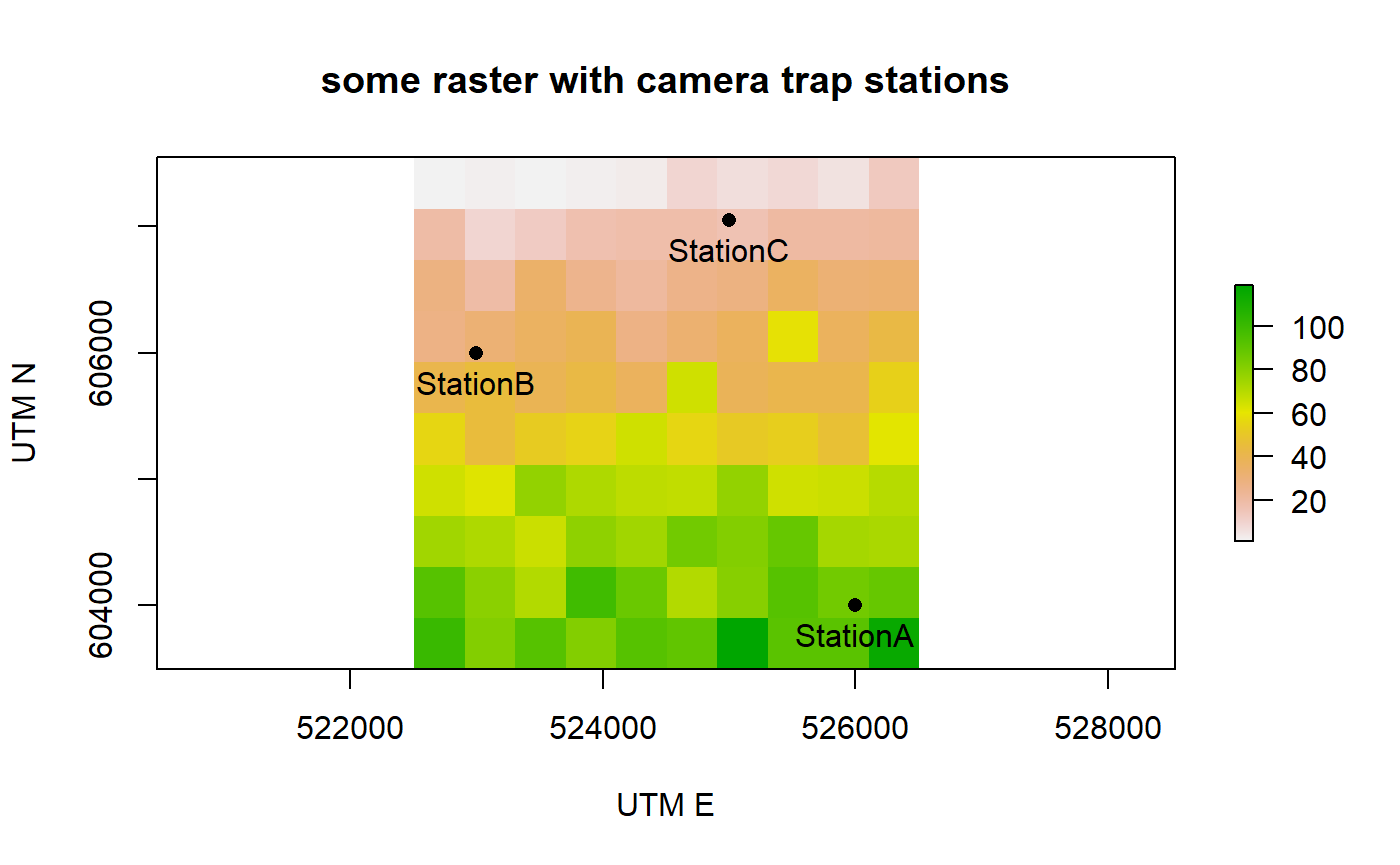
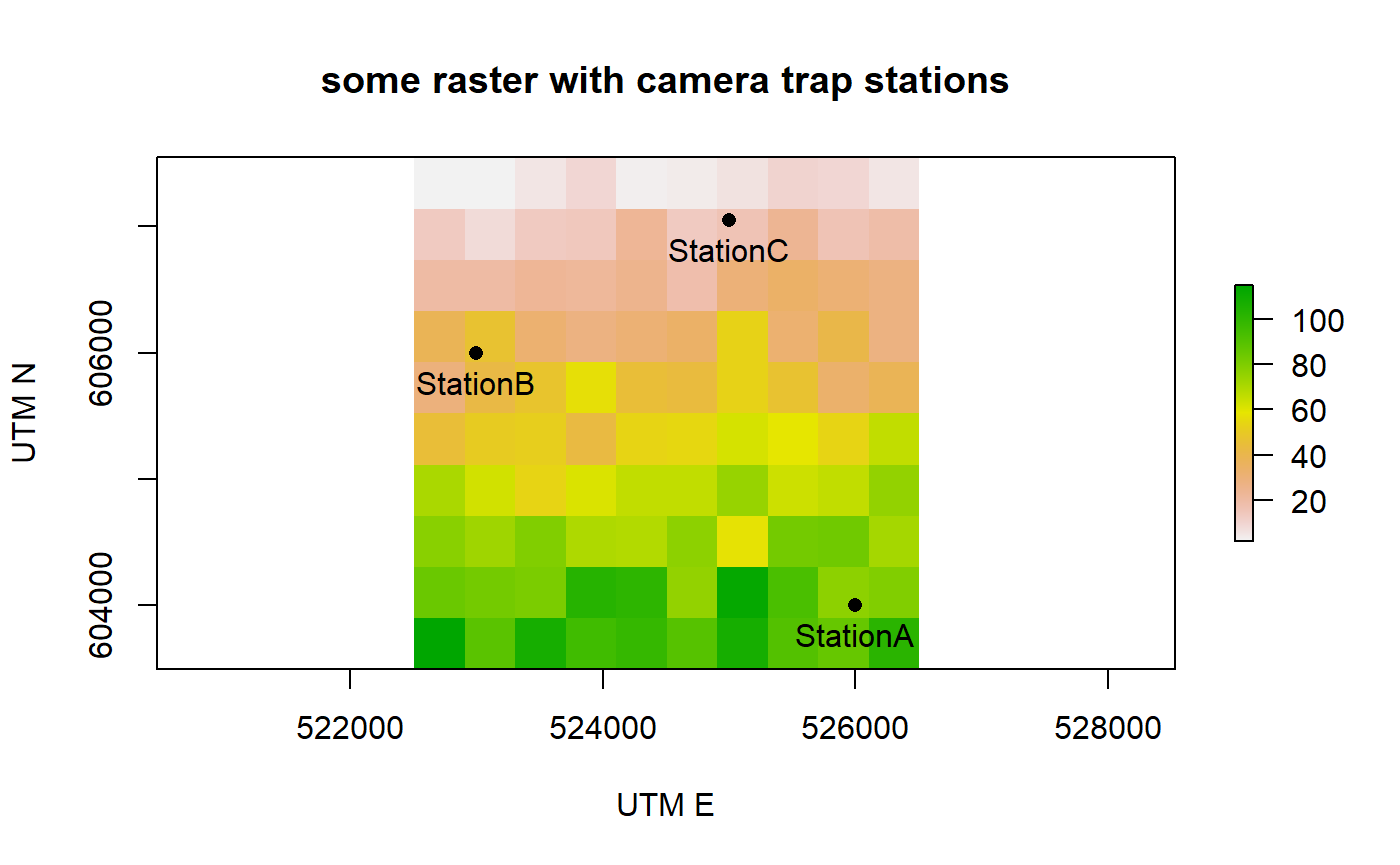
version check in camop_Plot

diff --git a/docs/articles/camtrapr4.html b/docs/articles/camtrapr4.html
@@ -31,7 +31,7 @@
       </button>
       <span class="navbar-brand">
         <a class="navbar-link" href="../index.html">camtrapR</a>
-        <span class="version label label-default" data-toggle="tooltip" data-placement="bottom" title="Released version">2.0.0</span>
+        <span class="version label label-default" data-toggle="tooltip" data-placement="bottom" title="Released version">2.0.2</span>
       </span>
     </div>
 
@@ -94,7 +94,7 @@
       <h1>4. Data exploration and visualisation in camtrapR</h1>
                         <h4 class="author">Juergen Niedballa (<a href="mailto:camtrapr@gmail.com" class="email">camtrapr@gmail.com</a>)</h4>
             
-            <h4 class="date">2020-04-08</h4>
+            <h4 class="date">2020-04-22</h4>
       
       <small class="dont-index">Source: <a href="https://github.com/jniedballa/camtrapR/blob/master/vignettes/camtrapr4.Rmd"><code>vignettes/camtrapr4.Rmd</code></a></small>
       <div class="hidden name"><code>camtrapr4.Rmd</code></div>
@@ -193,7 +193,7 @@
 <a class="sourceLine" id="cb8-2" title="2">shapefileTest &lt;-<span class="st"> </span><span class="kw">readOGR</span>(<span class="dt">dsn   =</span> <span class="kw"><a href="https://rdrr.io/r/base/tempfile.html">tempdir</a></span>(), </a>
 <a class="sourceLine" id="cb8-3" title="3">                         <span class="dt">layer =</span> shapefileName)</a></code></pre></div>
 <pre><code>## OGR data source with driver: ESRI Shapefile 
-## Source: "C:\Users\Juergen\AppData\Local\Temp\RtmpUpycSg", layer: "recordShapefileTest"
+## Source: "C:\Users\Juergen\AppData\Local\Temp\Rtmp0s38Wd", layer: "recordShapefileTest"
 ## with 3 features
 ## It has 9 fields</code></pre>
 <div class="sourceCode" id="cb10"><pre class="sourceCode r"><code class="sourceCode r"><a class="sourceLine" id="cb10-1" title="1"><span class="co"># we have a look at the attribute table</span></a>
@@ -266,10 +266,11 @@
 <a class="sourceLine" id="cb16-26" title="26">  detections_spdf<span class="op">@</span>data</a>
 <a class="sourceLine" id="cb16-27" title="27"></a>
 <a class="sourceLine" id="cb16-28" title="28">}</a></code></pre></div>
+<pre><code>## Warning: package 'raster' was built under R version 3.6.3</code></pre>
 <p><img src="camtrapr4_files/figure-html/unnamed-chunk-7-1.png" width="700"></p>
 <pre><code>##    Station  utm_y  utm_x EGY MNE PBE TRA VTA n_species raster_value
-## 1 StationA 604000 526000   0   0   4   0   2         2           86
-## 2 StationB 606000 523000   0   2   8   0   2         3           31
+## 1 StationA 604000 526000   0   0   4   0   2         2           77
+## 2 StationB 606000 523000   0   2   8   0   2         3           47
 ## 3 StationC 607050 525000   6   0   6   8   1         4           16</code></pre>
 <p>The same procedure also works with the camera trap station information table instead of the <code>detectionMaps</code> output.</p>
 </div>
@@ -292,44 +293,44 @@
 <code>activityRadial</code>: radial plot of hourly activity</li>
 </ol>
 <p>In all three, users can either plot activity of one focal species (by setting argument <code>allSpecies = FALSE</code>) or of all recorded species at once (by setting argument <code>allSpecies = TRUE</code>). If desired, plots can be saved as png files in a user-defined location automatically (arguments <code>writePNG</code> and <code>plotDirectory</code>). Note that the examples are not particularly pretty because of the low number of records used in the sample data set.</p>
-<div class="sourceCode" id="cb18"><pre class="sourceCode r"><code class="sourceCode r"><a class="sourceLine" id="cb18-1" title="1"><span class="co"># we first pick a species for our activity trials</span></a>
-<a class="sourceLine" id="cb18-2" title="2">species4activity &lt;-<span class="st"> "PBE"</span>    <span class="co"># = Prionailurus bengalensis, Leopard Cat</span></a></code></pre></div>
+<div class="sourceCode" id="cb19"><pre class="sourceCode r"><code class="sourceCode r"><a class="sourceLine" id="cb19-1" title="1"><span class="co"># we first pick a species for our activity trials</span></a>
+<a class="sourceLine" id="cb19-2" title="2">species4activity &lt;-<span class="st"> "PBE"</span>    <span class="co"># = Prionailurus bengalensis, Leopard Cat</span></a></code></pre></div>
 <div id="kernel-density-estimation" class="section level3">
 <h3 class="hasAnchor">
 <a href="#kernel-density-estimation" class="anchor"></a>Kernel density estimation</h3>
 <p><code>activityDensity</code> uses the function <code>densityPlot</code> from the <code>overlap</code> package.</p>
-<div class="sourceCode" id="cb19"><pre class="sourceCode r"><code class="sourceCode r"><a class="sourceLine" id="cb19-1" title="1"><span class="kw"><a href="../reference/activityDensity.html">activityDensity</a></span>(<span class="dt">recordTable =</span> recordTableSample,</a>
-<a class="sourceLine" id="cb19-2" title="2">                <span class="dt">species     =</span> species4activity)</a></code></pre></div>
+<div class="sourceCode" id="cb20"><pre class="sourceCode r"><code class="sourceCode r"><a class="sourceLine" id="cb20-1" title="1"><span class="kw"><a href="../reference/activityDensity.html">activityDensity</a></span>(<span class="dt">recordTable =</span> recordTableSample,</a>
+<a class="sourceLine" id="cb20-2" title="2">                <span class="dt">species     =</span> species4activity)</a></code></pre></div>
 <p><img src="camtrapr4_files/figure-html/unnamed-chunk-9-1.png" width="700"></p>
 </div>
 <div id="histogram" class="section level3">
 <h3 class="hasAnchor">
 <a href="#histogram" class="anchor"></a>Histogram</h3>
 <p>This function creates a histogram with hourly intervals, i.e. histogram cells are 1 hour wide.</p>
-<div class="sourceCode" id="cb20"><pre class="sourceCode r"><code class="sourceCode r"><a class="sourceLine" id="cb20-1" title="1"><span class="kw"><a href="../reference/activityHistogram.html">activityHistogram</a></span> (<span class="dt">recordTable =</span> recordTableSample,</a>
-<a class="sourceLine" id="cb20-2" title="2">                   <span class="dt">species     =</span> species4activity)</a></code></pre></div>
+<div class="sourceCode" id="cb21"><pre class="sourceCode r"><code class="sourceCode r"><a class="sourceLine" id="cb21-1" title="1"><span class="kw"><a href="../reference/activityHistogram.html">activityHistogram</a></span> (<span class="dt">recordTable =</span> recordTableSample,</a>
+<a class="sourceLine" id="cb21-2" title="2">                   <span class="dt">species     =</span> species4activity)</a></code></pre></div>
 <p><img src="camtrapr4_files/figure-html/unnamed-chunk-10-1.png" width="700"></p>
 </div>
 <div id="radial-plot" class="section level3">
 <h3 class="hasAnchor">
 <a href="#radial-plot" class="anchor"></a>Radial plot</h3>
 <p>This function uses functions from the <code>plotrix</code> package to create the clock face. Records are aggregated to the full hour (as in <code>activityHistogram</code>).</p>
-<div class="sourceCode" id="cb21"><pre class="sourceCode r"><code class="sourceCode r"><a class="sourceLine" id="cb21-1" title="1"><span class="kw"><a href="../reference/activityRadial.html">activityRadial</a></span>(<span class="dt">recordTable  =</span> recordTableSample,</a>
-<a class="sourceLine" id="cb21-2" title="2">               <span class="dt">species      =</span> species4activity,</a>
-<a class="sourceLine" id="cb21-3" title="3">               <span class="dt">lwd          =</span> <span class="dv">3</span>       <span class="co"># adjust line with of the plot</span></a>
-<a class="sourceLine" id="cb21-4" title="4">)</a></code></pre></div>
+<div class="sourceCode" id="cb22"><pre class="sourceCode r"><code class="sourceCode r"><a class="sourceLine" id="cb22-1" title="1"><span class="kw"><a href="../reference/activityRadial.html">activityRadial</a></span>(<span class="dt">recordTable  =</span> recordTableSample,</a>
+<a class="sourceLine" id="cb22-2" title="2">               <span class="dt">species      =</span> species4activity,</a>
+<a class="sourceLine" id="cb22-3" title="3">               <span class="dt">lwd          =</span> <span class="dv">3</span>       <span class="co"># adjust line with of the plot</span></a>
+<a class="sourceLine" id="cb22-4" title="4">)</a></code></pre></div>
 <p><img src="camtrapr4_files/figure-html/unnamed-chunk-11-1.png" width="700"></p>
 <p>One can also make the function show a polygon instead of the radial lines. <code>rp.type</code> is an argument to <code>radial.plot</code> and defaults to <code>"r"</code> (radial). Setting it to <code>"p"</code> gives a polygon.</p>
-<div class="sourceCode" id="cb22"><pre class="sourceCode r"><code class="sourceCode r"><a class="sourceLine" id="cb22-1" title="1"><span class="kw"><a href="../reference/activityRadial.html">activityRadial</a></span>(<span class="dt">recordTable       =</span> recordTableSample,</a>
-<a class="sourceLine" id="cb22-2" title="2">               <span class="dt">species           =</span> species4activity,</a>
-<a class="sourceLine" id="cb22-3" title="3">               <span class="dt">allSpecies        =</span> <span class="ot">FALSE</span>,</a>
-<a class="sourceLine" id="cb22-4" title="4">               <span class="dt">speciesCol        =</span> <span class="st">"Species"</span>,</a>
-<a class="sourceLine" id="cb22-5" title="5">               <span class="dt">recordDateTimeCol =</span> <span class="st">"DateTimeOriginal"</span>,</a>
-<a class="sourceLine" id="cb22-6" title="6">               <span class="dt">plotR             =</span> <span class="ot">TRUE</span>,</a>
-<a class="sourceLine" id="cb22-7" title="7">               <span class="dt">writePNG          =</span> <span class="ot">FALSE</span>,</a>
-<a class="sourceLine" id="cb22-8" title="8">               <span class="dt">lwd               =</span> <span class="dv">3</span>,</a>
-<a class="sourceLine" id="cb22-9" title="9">               <span class="dt">rp.type           =</span> <span class="st">"p"</span>      <span class="co"># plot type = polygon</span></a>
-<a class="sourceLine" id="cb22-10" title="10">)</a></code></pre></div>
+<div class="sourceCode" id="cb23"><pre class="sourceCode r"><code class="sourceCode r"><a class="sourceLine" id="cb23-1" title="1"><span class="kw"><a href="../reference/activityRadial.html">activityRadial</a></span>(<span class="dt">recordTable       =</span> recordTableSample,</a>
+<a class="sourceLine" id="cb23-2" title="2">               <span class="dt">species           =</span> species4activity,</a>
+<a class="sourceLine" id="cb23-3" title="3">               <span class="dt">allSpecies        =</span> <span class="ot">FALSE</span>,</a>
+<a class="sourceLine" id="cb23-4" title="4">               <span class="dt">speciesCol        =</span> <span class="st">"Species"</span>,</a>
+<a class="sourceLine" id="cb23-5" title="5">               <span class="dt">recordDateTimeCol =</span> <span class="st">"DateTimeOriginal"</span>,</a>
+<a class="sourceLine" id="cb23-6" title="6">               <span class="dt">plotR             =</span> <span class="ot">TRUE</span>,</a>
+<a class="sourceLine" id="cb23-7" title="7">               <span class="dt">writePNG          =</span> <span class="ot">FALSE</span>,</a>
+<a class="sourceLine" id="cb23-8" title="8">               <span class="dt">lwd               =</span> <span class="dv">3</span>,</a>
+<a class="sourceLine" id="cb23-9" title="9">               <span class="dt">rp.type           =</span> <span class="st">"p"</span>      <span class="co"># plot type = polygon</span></a>
+<a class="sourceLine" id="cb23-10" title="10">)</a></code></pre></div>
 <p><img src="camtrapr4_files/figure-html/unnamed-chunk-12-1.png" width="700"></p>
 </div>
 </div>
@@ -337,36 +338,36 @@
 <h2 class="hasAnchor">
 <a href="#two-species-activity-plots" class="anchor"></a>Two-species activity plots</h2>
 <p>Two-species activity overlaps can be plotted in addition to single-species activity plots. It is the overlap between two single-species kernel density estimations. The functions <code>overlapPlot</code> and <code>overlapEst</code> from the <code>overlap</code> package are used for that purpose. The overlap coefficient shown in the plot is Dhat1 from <code>overlapEst</code>.</p>
-<div class="sourceCode" id="cb23"><pre class="sourceCode r"><code class="sourceCode r"><a class="sourceLine" id="cb23-1" title="1"><span class="co"># define species of interest</span></a>
-<a class="sourceLine" id="cb23-2" title="2">speciesA_for_activity &lt;-<span class="st"> "VTA"</span>    <span class="co"># = Viverra tangalunga, Malay Civet</span></a>
-<a class="sourceLine" id="cb23-3" title="3">speciesB_for_activity &lt;-<span class="st"> "PBE"</span>    <span class="co"># = Prionailurus bengalensis, Leopard Cat</span></a>
-<a class="sourceLine" id="cb23-4" title="4"></a>
-<a class="sourceLine" id="cb23-5" title="5"><span class="co"># create activity overlap plot</span></a>
-<a class="sourceLine" id="cb23-6" title="6"><span class="kw"><a href="../reference/activityOverlap.html">activityOverlap</a></span> (<span class="dt">recordTable =</span> recordTableSample,</a>
-<a class="sourceLine" id="cb23-7" title="7">                 <span class="dt">speciesA    =</span> speciesA_for_activity,</a>
-<a class="sourceLine" id="cb23-8" title="8">                 <span class="dt">speciesB    =</span> speciesB_for_activity,</a>
-<a class="sourceLine" id="cb23-9" title="9">                 <span class="dt">writePNG    =</span> <span class="ot">FALSE</span>,</a>
-<a class="sourceLine" id="cb23-10" title="10">                 <span class="dt">plotR       =</span> <span class="ot">TRUE</span>,</a>
-<a class="sourceLine" id="cb23-11" title="11">                 <span class="dt">add.rug     =</span> <span class="ot">TRUE</span></a>
-<a class="sourceLine" id="cb23-12" title="12">)</a></code></pre></div>
+<div class="sourceCode" id="cb24"><pre class="sourceCode r"><code class="sourceCode r"><a class="sourceLine" id="cb24-1" title="1"><span class="co"># define species of interest</span></a>
+<a class="sourceLine" id="cb24-2" title="2">speciesA_for_activity &lt;-<span class="st"> "VTA"</span>    <span class="co"># = Viverra tangalunga, Malay Civet</span></a>
+<a class="sourceLine" id="cb24-3" title="3">speciesB_for_activity &lt;-<span class="st"> "PBE"</span>    <span class="co"># = Prionailurus bengalensis, Leopard Cat</span></a>
+<a class="sourceLine" id="cb24-4" title="4"></a>
+<a class="sourceLine" id="cb24-5" title="5"><span class="co"># create activity overlap plot</span></a>
+<a class="sourceLine" id="cb24-6" title="6"><span class="kw"><a href="../reference/activityOverlap.html">activityOverlap</a></span> (<span class="dt">recordTable =</span> recordTableSample,</a>
+<a class="sourceLine" id="cb24-7" title="7">                 <span class="dt">speciesA    =</span> speciesA_for_activity,</a>
+<a class="sourceLine" id="cb24-8" title="8">                 <span class="dt">speciesB    =</span> speciesB_for_activity,</a>
+<a class="sourceLine" id="cb24-9" title="9">                 <span class="dt">writePNG    =</span> <span class="ot">FALSE</span>,</a>
+<a class="sourceLine" id="cb24-10" title="10">                 <span class="dt">plotR       =</span> <span class="ot">TRUE</span>,</a>
+<a class="sourceLine" id="cb24-11" title="11">                 <span class="dt">add.rug     =</span> <span class="ot">TRUE</span></a>
+<a class="sourceLine" id="cb24-12" title="12">)</a></code></pre></div>
 <p><img src="camtrapr4_files/figure-html/unnamed-chunk-13-1.png" width="700"></p>
 <p>This plot an be customised by passing additional arguments to <code>overlapPlot</code>:</p>
-<div class="sourceCode" id="cb24"><pre class="sourceCode r"><code class="sourceCode r"><a class="sourceLine" id="cb24-1" title="1"><span class="kw"><a href="../reference/activityOverlap.html">activityOverlap</a></span> (<span class="dt">recordTable =</span> recordTableSample,</a>
-<a class="sourceLine" id="cb24-2" title="2">                 <span class="dt">speciesA    =</span> speciesA_for_activity,</a>
-<a class="sourceLine" id="cb24-3" title="3">                 <span class="dt">speciesB    =</span> speciesB_for_activity,</a>
-<a class="sourceLine" id="cb24-4" title="4">                 <span class="dt">writePNG    =</span> <span class="ot">FALSE</span>,</a>
-<a class="sourceLine" id="cb24-5" title="5">                 <span class="dt">plotR       =</span> <span class="ot">TRUE</span>,</a>
-<a class="sourceLine" id="cb24-6" title="6">                 <span class="dt">createDir   =</span> <span class="ot">FALSE</span>,</a>
-<a class="sourceLine" id="cb24-7" title="7">                 <span class="dt">pngMaxPix   =</span> <span class="dv">1000</span>,</a>
-<a class="sourceLine" id="cb24-8" title="8">                 <span class="dt">linecol     =</span> <span class="kw"><a href="https://rdrr.io/r/base/c.html">c</a></span>(<span class="st">"black"</span>, <span class="st">"blue"</span>),</a>
-<a class="sourceLine" id="cb24-9" title="9">                 <span class="dt">linewidth   =</span> <span class="kw"><a href="https://rdrr.io/r/base/c.html">c</a></span>(<span class="dv">5</span>,<span class="dv">3</span>),</a>
-<a class="sourceLine" id="cb24-10" title="10">                 <span class="dt">linetype    =</span> <span class="kw"><a href="https://rdrr.io/r/base/c.html">c</a></span>(<span class="dv">1</span>, <span class="dv">2</span>),</a>
-<a class="sourceLine" id="cb24-11" title="11">                 <span class="dt">olapcol     =</span> <span class="st">"darkgrey"</span>,</a>
-<a class="sourceLine" id="cb24-12" title="12">                 <span class="dt">add.rug     =</span> <span class="ot">TRUE</span>,</a>
-<a class="sourceLine" id="cb24-13" title="13">                 <span class="dt">extend      =</span> <span class="st">"lightgrey"</span>,</a>
-<a class="sourceLine" id="cb24-14" title="14">                 <span class="dt">ylim        =</span> <span class="kw"><a href="https://rdrr.io/r/base/c.html">c</a></span>(<span class="dv">0</span>, <span class="fl">0.25</span>),</a>
-<a class="sourceLine" id="cb24-15" title="15">                 <span class="dt">main        =</span> <span class="kw"><a href="https://rdrr.io/r/base/paste.html">paste</a></span>(<span class="st">"Activity overlap: "</span>, speciesA_for_activity, <span class="st">"-"</span>, speciesB_for_activity)</a>
-<a class="sourceLine" id="cb24-16" title="16">)</a></code></pre></div>
+<div class="sourceCode" id="cb25"><pre class="sourceCode r"><code class="sourceCode r"><a class="sourceLine" id="cb25-1" title="1"><span class="kw"><a href="../reference/activityOverlap.html">activityOverlap</a></span> (<span class="dt">recordTable =</span> recordTableSample,</a>
+<a class="sourceLine" id="cb25-2" title="2">                 <span class="dt">speciesA    =</span> speciesA_for_activity,</a>
+<a class="sourceLine" id="cb25-3" title="3">                 <span class="dt">speciesB    =</span> speciesB_for_activity,</a>
+<a class="sourceLine" id="cb25-4" title="4">                 <span class="dt">writePNG    =</span> <span class="ot">FALSE</span>,</a>
+<a class="sourceLine" id="cb25-5" title="5">                 <span class="dt">plotR       =</span> <span class="ot">TRUE</span>,</a>
+<a class="sourceLine" id="cb25-6" title="6">                 <span class="dt">createDir   =</span> <span class="ot">FALSE</span>,</a>
+<a class="sourceLine" id="cb25-7" title="7">                 <span class="dt">pngMaxPix   =</span> <span class="dv">1000</span>,</a>
+<a class="sourceLine" id="cb25-8" title="8">                 <span class="dt">linecol     =</span> <span class="kw"><a href="https://rdrr.io/r/base/c.html">c</a></span>(<span class="st">"black"</span>, <span class="st">"blue"</span>),</a>
+<a class="sourceLine" id="cb25-9" title="9">                 <span class="dt">linewidth   =</span> <span class="kw"><a href="https://rdrr.io/r/base/c.html">c</a></span>(<span class="dv">5</span>,<span class="dv">3</span>),</a>
+<a class="sourceLine" id="cb25-10" title="10">                 <span class="dt">linetype    =</span> <span class="kw"><a href="https://rdrr.io/r/base/c.html">c</a></span>(<span class="dv">1</span>, <span class="dv">2</span>),</a>
+<a class="sourceLine" id="cb25-11" title="11">                 <span class="dt">olapcol     =</span> <span class="st">"darkgrey"</span>,</a>
+<a class="sourceLine" id="cb25-12" title="12">                 <span class="dt">add.rug     =</span> <span class="ot">TRUE</span>,</a>
+<a class="sourceLine" id="cb25-13" title="13">                 <span class="dt">extend      =</span> <span class="st">"lightgrey"</span>,</a>
+<a class="sourceLine" id="cb25-14" title="14">                 <span class="dt">ylim        =</span> <span class="kw"><a href="https://rdrr.io/r/base/c.html">c</a></span>(<span class="dv">0</span>, <span class="fl">0.25</span>),</a>
+<a class="sourceLine" id="cb25-15" title="15">                 <span class="dt">main        =</span> <span class="kw"><a href="https://rdrr.io/r/base/paste.html">paste</a></span>(<span class="st">"Activity overlap: "</span>, speciesA_for_activity, <span class="st">"-"</span>, speciesB_for_activity)</a>
+<a class="sourceLine" id="cb25-16" title="16">)</a></code></pre></div>
 <p><img src="camtrapr4_files/figure-html/unnamed-chunk-14-1.png" width="700"></p>
 </div>
 </div>
@@ -385,16 +386,16 @@
 <li>number of stations at which species were recorded</li>
 <li>number of independent events by station and species</li>
 </ul>
-<div class="sourceCode" id="cb25"><pre class="sourceCode r"><code class="sourceCode r"><a class="sourceLine" id="cb25-1" title="1">reportTest &lt;-<span class="st"> </span><span class="kw"><a href="../reference/surveyReport.html">surveyReport</a></span> (<span class="dt">recordTable          =</span> recordTableSample,</a>
-<a class="sourceLine" id="cb25-2" title="2">                            <span class="dt">CTtable              =</span> camtraps,</a>
-<a class="sourceLine" id="cb25-3" title="3">                            <span class="dt">speciesCol           =</span> <span class="st">"Species"</span>,</a>
-<a class="sourceLine" id="cb25-4" title="4">                            <span class="dt">stationCol           =</span> <span class="st">"Station"</span>,</a>
-<a class="sourceLine" id="cb25-5" title="5">                            <span class="dt">setupCol             =</span> <span class="st">"Setup_date"</span>,</a>
-<a class="sourceLine" id="cb25-6" title="6">                            <span class="dt">retrievalCol         =</span> <span class="st">"Retrieval_date"</span>,</a>
-<a class="sourceLine" id="cb25-7" title="7">                            <span class="dt">CTDateFormat         =</span> <span class="st">"%d/%m/%Y"</span>, </a>
-<a class="sourceLine" id="cb25-8" title="8">                            <span class="dt">recordDateTimeCol    =</span> <span class="st">"DateTimeOriginal"</span>,</a>
-<a class="sourceLine" id="cb25-9" title="9">                            <span class="dt">recordDateTimeFormat =</span> <span class="st">"%Y-%m-%d %H:%M:%S"</span>,</a>
-<a class="sourceLine" id="cb25-10" title="10">                            <span class="dt">CTHasProblems        =</span> <span class="ot">TRUE</span>)</a></code></pre></div>
+<div class="sourceCode" id="cb26"><pre class="sourceCode r"><code class="sourceCode r"><a class="sourceLine" id="cb26-1" title="1">reportTest &lt;-<span class="st"> </span><span class="kw"><a href="../reference/surveyReport.html">surveyReport</a></span> (<span class="dt">recordTable          =</span> recordTableSample,</a>
+<a class="sourceLine" id="cb26-2" title="2">                            <span class="dt">CTtable              =</span> camtraps,</a>
+<a class="sourceLine" id="cb26-3" title="3">                            <span class="dt">speciesCol           =</span> <span class="st">"Species"</span>,</a>
+<a class="sourceLine" id="cb26-4" title="4">                            <span class="dt">stationCol           =</span> <span class="st">"Station"</span>,</a>
+<a class="sourceLine" id="cb26-5" title="5">                            <span class="dt">setupCol             =</span> <span class="st">"Setup_date"</span>,</a>
+<a class="sourceLine" id="cb26-6" title="6">                            <span class="dt">retrievalCol         =</span> <span class="st">"Retrieval_date"</span>,</a>
+<a class="sourceLine" id="cb26-7" title="7">                            <span class="dt">CTDateFormat         =</span> <span class="st">"%d/%m/%Y"</span>, </a>
+<a class="sourceLine" id="cb26-8" title="8">                            <span class="dt">recordDateTimeCol    =</span> <span class="st">"DateTimeOriginal"</span>,</a>
+<a class="sourceLine" id="cb26-9" title="9">                            <span class="dt">recordDateTimeFormat =</span> <span class="st">"%Y-%m-%d %H:%M:%S"</span>,</a>
+<a class="sourceLine" id="cb26-10" title="10">                            <span class="dt">CTHasProblems        =</span> <span class="ot">TRUE</span>)</a></code></pre></div>
 <pre><code>## 
 ## -------------------------------------------------------
 ## [1] "Total number of stations:  3"
@@ -411,7 +412,7 @@
 ## -------------------------------------------------------
 ## [1] "total trapping period:  2009-04-02 - 2009-05-17"</code></pre>
 <p>Some basic information is shown in the console. The function output is a list with 5 elements.</p>
-<div class="sourceCode" id="cb27"><pre class="sourceCode r"><code class="sourceCode r"><a class="sourceLine" id="cb27-1" title="1"><span class="kw"><a href="https://rdrr.io/r/utils/str.html">str</a></span>(reportTest)</a></code></pre></div>
+<div class="sourceCode" id="cb28"><pre class="sourceCode r"><code class="sourceCode r"><a class="sourceLine" id="cb28-1" title="1"><span class="kw"><a href="https://rdrr.io/r/utils/str.html">str</a></span>(reportTest)</a></code></pre></div>
 <pre><code>## List of 5
 ##  $ survey_dates      :'data.frame':  3 obs. of  8 variables:
 ##   ..$ Station         : Factor w/ 3 levels "StationA","StationB",..: 1 2 3
@@ -439,9 +440,9 @@
 ##   ..$ n_events: num [1:15] 0 0 4 0 2 0 2 8 0 2 ...</code></pre>
 <p>The list elements can be accessed individually like this: <code>reportTest[[1]]</code> or like this: <code>reportTest$survey_dates</code>.</p>
 <p>Some of the arguments need further explanations. <code>CTHasProblems</code> is used to tell camtrapR whether to look for columns specifying periods of malfunctioning in <code>CTtable</code> (e.g. ‘Problem1_from’ and ‘Problem1_to’). If there was more than one camera per station <code>cameraCol</code> specifies the columns containing camera IDs . Not setting it will cause camtrapR to assume there was 1 camera per station, biasing the trap day calculation. <code>sinkpath</code> can optionally be a directory in which the function will save the output as a txt file.</p>
-<div class="sourceCode" id="cb29"><pre class="sourceCode r"><code class="sourceCode r"><a class="sourceLine" id="cb29-1" title="1"><span class="co"># here's the output of surveyReport</span></a>
-<a class="sourceLine" id="cb29-2" title="2"></a>
-<a class="sourceLine" id="cb29-3" title="3">reportTest[[<span class="dv">1</span>]]    <span class="co"># camera trap operation times and image date ranges</span></a></code></pre></div>
+<div class="sourceCode" id="cb30"><pre class="sourceCode r"><code class="sourceCode r"><a class="sourceLine" id="cb30-1" title="1"><span class="co"># here's the output of surveyReport</span></a>
+<a class="sourceLine" id="cb30-2" title="2"></a>
+<a class="sourceLine" id="cb30-3" title="3">reportTest[[<span class="dv">1</span>]]    <span class="co"># camera trap operation times and image date ranges</span></a></code></pre></div>
 <pre><code>##    Station setup_date first_image_date last_image_date retrieval_date
 ## 1 StationA 2009-04-02       2009-04-10      2009-05-07     2009-05-14
 ## 2 StationB 2009-04-03       2009-04-05      2009-05-14     2009-05-16
@@ -450,19 +451,19 @@
 ## 1             42              42         1
 ## 2             43              43         1
 ## 3             43              38         1</code></pre>
-<div class="sourceCode" id="cb31"><pre class="sourceCode r"><code class="sourceCode r"><a class="sourceLine" id="cb31-1" title="1">reportTest[[<span class="dv">2</span>]]    <span class="co"># number of species by station</span></a></code></pre></div>
+<div class="sourceCode" id="cb32"><pre class="sourceCode r"><code class="sourceCode r"><a class="sourceLine" id="cb32-1" title="1">reportTest[[<span class="dv">2</span>]]    <span class="co"># number of species by station</span></a></code></pre></div>
 <pre><code>##    Station n_species
 ## 1 StationA         2
 ## 2 StationB         3
 ## 3 StationC         4</code></pre>
-<div class="sourceCode" id="cb33"><pre class="sourceCode r"><code class="sourceCode r"><a class="sourceLine" id="cb33-1" title="1">reportTest[[<span class="dv">3</span>]]    <span class="co"># number of events and number of stations by species</span></a></code></pre></div>
+<div class="sourceCode" id="cb34"><pre class="sourceCode r"><code class="sourceCode r"><a class="sourceLine" id="cb34-1" title="1">reportTest[[<span class="dv">3</span>]]    <span class="co"># number of events and number of stations by species</span></a></code></pre></div>
 <pre><code>##   species n_events n_stations
 ## 1     EGY        6          1
 ## 2     MNE        2          1
 ## 3     PBE       18          3
 ## 4     TRA        8          1
 ## 5     VTA        5          3</code></pre>
-<div class="sourceCode" id="cb35"><pre class="sourceCode r"><code class="sourceCode r"><a class="sourceLine" id="cb35-1" title="1">reportTest[[<span class="dv">4</span>]]    <span class="co"># number of species events by station</span></a></code></pre></div>
+<div class="sourceCode" id="cb36"><pre class="sourceCode r"><code class="sourceCode r"><a class="sourceLine" id="cb36-1" title="1">reportTest[[<span class="dv">4</span>]]    <span class="co"># number of species events by station</span></a></code></pre></div>
 <pre><code>##    Station Species n_events
 ## 1 StationA     PBE        4
 ## 2 StationA     VTA        2
@@ -473,7 +474,7 @@
 ## 7 StationC     PBE        6
 ## 8 StationC     TRA        8
 ## 9 StationC     VTA        1</code></pre>
-<div class="sourceCode" id="cb37"><pre class="sourceCode r"><code class="sourceCode r"><a class="sourceLine" id="cb37-1" title="1"><span class="co"># reportTest[[5]] is identical to reportTest[[4]] except for the fact that it contains unobserved species with n_events = 0</span></a></code></pre></div>
+<div class="sourceCode" id="cb38"><pre class="sourceCode r"><code class="sourceCode r"><a class="sourceLine" id="cb38-1" title="1"><span class="co"># reportTest[[5]] is identical to reportTest[[4]] except for the fact that it contains unobserved species with n_events = 0</span></a></code></pre></div>
 <div id="survey-summary-report-zip-file" class="section level2">
 <h2 class="hasAnchor">
 <a href="#survey-summary-report-zip-file" class="anchor"></a>Survey summary report zip file</h2>

diff --git a/docs/articles/camtrapr3.html b/docs/articles/camtrapr3.html
@@ -94,7 +94,7 @@
       <h1>3. Extracting Data from Camera Trapping Images and videos, creating occupancy &amp; secr input</h1>
                         <h4 class="author">Juergen Niedballa (<a href="mailto:camtrapr@gmail.com" class="email">camtrapr@gmail.com</a>)</h4>
             
-            <h4 class="date">2020-04-20</h4>
+            <h4 class="date">2020-04-22</h4>
       
       <small class="dont-index">Source: <a href="https://github.com/jniedballa/camtrapR/blob/master/vignettes/camtrapr3.Rmd"><code>vignettes/camtrapr3.Rmd</code></a></small>
       <div class="hidden name"><code>camtrapr3.Rmd</code></div>
@@ -501,18 +501,19 @@
 <a class="sourceLine" id="cb41-3" title="3"><span class="kw"><a href="https://rdrr.io/r/utils/data.html">data</a></span>(camtraps)</a>
 <a class="sourceLine" id="cb41-4" title="4"></a>
 <a class="sourceLine" id="cb41-5" title="5">dateFormat &lt;-<span class="st"> "%d/%m/%Y"</span></a>
-<a class="sourceLine" id="cb41-6" title="6"> </a>
-<a class="sourceLine" id="cb41-7" title="7">camop_problem &lt;-<span class="st"> </span><span class="kw"><a href="../reference/cameraOperation.html">cameraOperation</a></span>(<span class="dt">CTtable      =</span> camtraps,</a>
-<a class="sourceLine" id="cb41-8" title="8">                                 <span class="dt">stationCol   =</span> <span class="st">"Station"</span>,</a>
-<a class="sourceLine" id="cb41-9" title="9">                                 <span class="dt">setupCol     =</span> <span class="st">"Setup_date"</span>,</a>
-<a class="sourceLine" id="cb41-10" title="10">                                 <span class="dt">retrievalCol =</span> <span class="st">"Retrieval_date"</span>,</a>
-<a class="sourceLine" id="cb41-11" title="11">                                 <span class="dt">writecsv     =</span> <span class="ot">FALSE</span>,</a>
-<a class="sourceLine" id="cb41-12" title="12">                                 <span class="dt">hasProblems  =</span> <span class="ot">TRUE</span>,</a>
-<a class="sourceLine" id="cb41-13" title="13">                                 <span class="dt">dateFormat   =</span> dateFormat</a>
-<a class="sourceLine" id="cb41-14" title="14">)</a>
-<a class="sourceLine" id="cb41-15" title="15"></a>
-<a class="sourceLine" id="cb41-16" title="16"><span class="co"># as a reminder, these are the dates in our station information table</span></a>
-<a class="sourceLine" id="cb41-17" title="17">camtraps[,<span class="op">-</span><span class="kw"><a href="https://rdrr.io/r/base/which.html">which</a></span>(<span class="kw"><a href="https://rdrr.io/r/base/colnames.html">colnames</a></span>(camtraps) <span class="op">%in%</span><span class="st"> </span><span class="kw"><a href="https://rdrr.io/r/base/c.html">c</a></span>(<span class="st">"utm_y"</span>, <span class="st">"utm_x"</span>))]</a></code></pre></div>
+<a class="sourceLine" id="cb41-6" title="6"><span class="co"># alternatively, use "dmy" (requires package "lubridate")</span></a>
+<a class="sourceLine" id="cb41-7" title="7"> </a>
+<a class="sourceLine" id="cb41-8" title="8">camop_problem &lt;-<span class="st"> </span><span class="kw"><a href="../reference/cameraOperation.html">cameraOperation</a></span>(<span class="dt">CTtable      =</span> camtraps,</a>
+<a class="sourceLine" id="cb41-9" title="9">                                 <span class="dt">stationCol   =</span> <span class="st">"Station"</span>,</a>
+<a class="sourceLine" id="cb41-10" title="10">                                 <span class="dt">setupCol     =</span> <span class="st">"Setup_date"</span>,</a>
+<a class="sourceLine" id="cb41-11" title="11">                                 <span class="dt">retrievalCol =</span> <span class="st">"Retrieval_date"</span>,</a>
+<a class="sourceLine" id="cb41-12" title="12">                                 <span class="dt">writecsv     =</span> <span class="ot">FALSE</span>,</a>
+<a class="sourceLine" id="cb41-13" title="13">                                 <span class="dt">hasProblems  =</span> <span class="ot">TRUE</span>,</a>
+<a class="sourceLine" id="cb41-14" title="14">                                 <span class="dt">dateFormat   =</span> dateFormat</a>
+<a class="sourceLine" id="cb41-15" title="15">)</a>
+<a class="sourceLine" id="cb41-16" title="16"></a>
+<a class="sourceLine" id="cb41-17" title="17"><span class="co"># as a reminder, these are the dates in our station information table</span></a>
+<a class="sourceLine" id="cb41-18" title="18">camtraps[,<span class="op">-</span><span class="kw"><a href="https://rdrr.io/r/base/which.html">which</a></span>(<span class="kw"><a href="https://rdrr.io/r/base/colnames.html">colnames</a></span>(camtraps) <span class="op">%in%</span><span class="st"> </span><span class="kw"><a href="https://rdrr.io/r/base/c.html">c</a></span>(<span class="st">"utm_y"</span>, <span class="st">"utm_x"</span>))]</a></code></pre></div>
 <pre><code>##    Station Setup_date Retrieval_date Problem1_from Problem1_to
 ## 1 StationA 02/04/2009     14/05/2009                          
 ## 2 StationB 03/04/2009     16/05/2009                          
@@ -545,8 +546,8 @@
 <a class="sourceLine" id="cb47-8" title="8">  values_tmp &lt;-<span class="st"> </span><span class="kw"><a href="https://rdrr.io/r/base/sort.html">sort</a></span>(<span class="kw"><a href="https://rdrr.io/r/stats/na.fail.html">na.omit</a></span>(<span class="kw"><a href="https://rdrr.io/r/base/unique.html">unique</a></span>(<span class="kw"><a href="https://rdrr.io/r/base/c.html">c</a></span>(camOp))))</a>
 <a class="sourceLine" id="cb47-9" title="9"></a>
 <a class="sourceLine" id="cb47-10" title="10">  <span class="co"># hcl.colors only exists in R &gt;3.6.0, use heat.colors for earlier versions</span></a>
-<a class="sourceLine" id="cb47-11" title="11">  <span class="cf">if</span>(<span class="kw"><a href="https://rdrr.io/r/base/exists.html">exists</a></span>(<span class="st">"hcl.colors"</span>)) {</a>
-<a class="sourceLine" id="cb47-12" title="12">    image_colors &lt;-<span class="st"> </span><span class="kw"><a href="https://rdrr.io/r/grDevices/palettes.html">hcl.colors</a></span>(<span class="dt">n =</span> <span class="kw"><a href="https://rdrr.io/r/base/length.html">length</a></span>(values_tmp), <span class="dt">palette =</span> palette, <span class="dt">rev =</span> <span class="ot">TRUE</span>)</a>
+<a class="sourceLine" id="cb47-11" title="11">  <span class="cf">if</span>(<span class="kw"><a href="https://rdrr.io/r/base/numeric_version.html">getRversion</a></span>() <span class="op">&gt;=</span><span class="st"> "3.6.0"</span>) {</a>
+<a class="sourceLine" id="cb47-12" title="12">    image_colors &lt;-<span class="st"> </span>grDevices<span class="op">::</span><span class="kw"><a href="https://rdrr.io/r/grDevices/palettes.html">hcl.colors</a></span>(<span class="dt">n =</span> <span class="kw"><a href="https://rdrr.io/r/base/length.html">length</a></span>(values_tmp), <span class="dt">palette =</span> palette, <span class="dt">rev =</span> <span class="ot">TRUE</span>)</a>
 <a class="sourceLine" id="cb47-13" title="13">  } <span class="cf">else</span> {</a>
 <a class="sourceLine" id="cb47-14" title="14">    image_colors &lt;-<span class="st"> </span><span class="kw"><a href="https://rdrr.io/r/grDevices/palettes.html">heat.colors</a></span>(<span class="dt">n =</span> <span class="kw"><a href="https://rdrr.io/r/base/length.html">length</a></span>(values_tmp), <span class="dt">rev =</span> <span class="ot">TRUE</span>)</a>
 <a class="sourceLine" id="cb47-15" title="15">  }</a>
@@ -557,7 +558,7 @@
 <a class="sourceLine" id="cb47-20" title="20">  <span class="kw"><a href="https://rdrr.io/r/graphics/abline.html">abline</a></span>(<span class="dt">v =</span> at.tmp, <span class="dt">col =</span> <span class="kw"><a href="https://rdrr.io/r/grDevices/rgb.html">rgb</a></span>(<span class="dv">0</span>,<span class="dv">0</span>,<span class="dv">0</span>, <span class="fl">0.2</span>))</a>
 <a class="sourceLine" id="cb47-21" title="21">  <span class="kw"><a href="https://rdrr.io/r/graphics/box.html">box</a></span>()</a>
 <a class="sourceLine" id="cb47-22" title="22">}</a></code></pre></div>
-<p>And this is what we get (in two different color palettes).</p>
+<p>And this is what we get (in two different color palettes, on R 3.6.0 or higher).</p>
 <div class="sourceCode" id="cb48"><pre class="sourceCode r"><code class="sourceCode r"><a class="sourceLine" id="cb48-1" title="1"><span class="kw"><a href="https://rdrr.io/r/graphics/par.html">par</a></span>(<span class="dt">mfrow =</span> <span class="kw"><a href="https://rdrr.io/r/base/c.html">c</a></span>(<span class="dv">1</span>,<span class="dv">2</span>))</a>
 <a class="sourceLine" id="cb48-2" title="2"><span class="kw">camopPlot</span>(<span class="dt">camOp =</span> camop_problem)</a>
 <a class="sourceLine" id="cb48-3" title="3"><span class="kw">camopPlot</span>(<span class="dt">camOp =</span> camop_problem, <span class="dt">palette =</span> <span class="st">"Viridis"</span>)</a></code></pre></div>
@@ -1182,10 +1183,10 @@
 ##  144    -26.492  -1.2627  -3.5678  14.9091 
 ##  145    -26.492  -1.2627  -3.5679  14.9106 
 ##  146    -26.492  -1.2627  -3.5680  14.9121 
-## Completed in 0.43 seconds at 13:45:34 20 Apr 2020</code></pre>
+## Completed in 0.3 seconds at 16:00:34 22 Apr 2020</code></pre>
 <div class="sourceCode" id="cb89"><pre class="sourceCode r"><code class="sourceCode r"><a class="sourceLine" id="cb89-1" title="1">  <span class="kw"><a href="https://rdrr.io/r/base/summary.html">summary</a></span>(secr.fit.example)</a></code></pre></div>
 <pre><code>## $versiontime
-## [1] "4.1.0, run 13:45:34 20 Apr 2020, elapsed 0.43 s"
+## [1] "4.1.0, run 16:00:33 22 Apr 2020, elapsed 0.3 s"
 ## 
 ## $capthist
 ##             1 2
